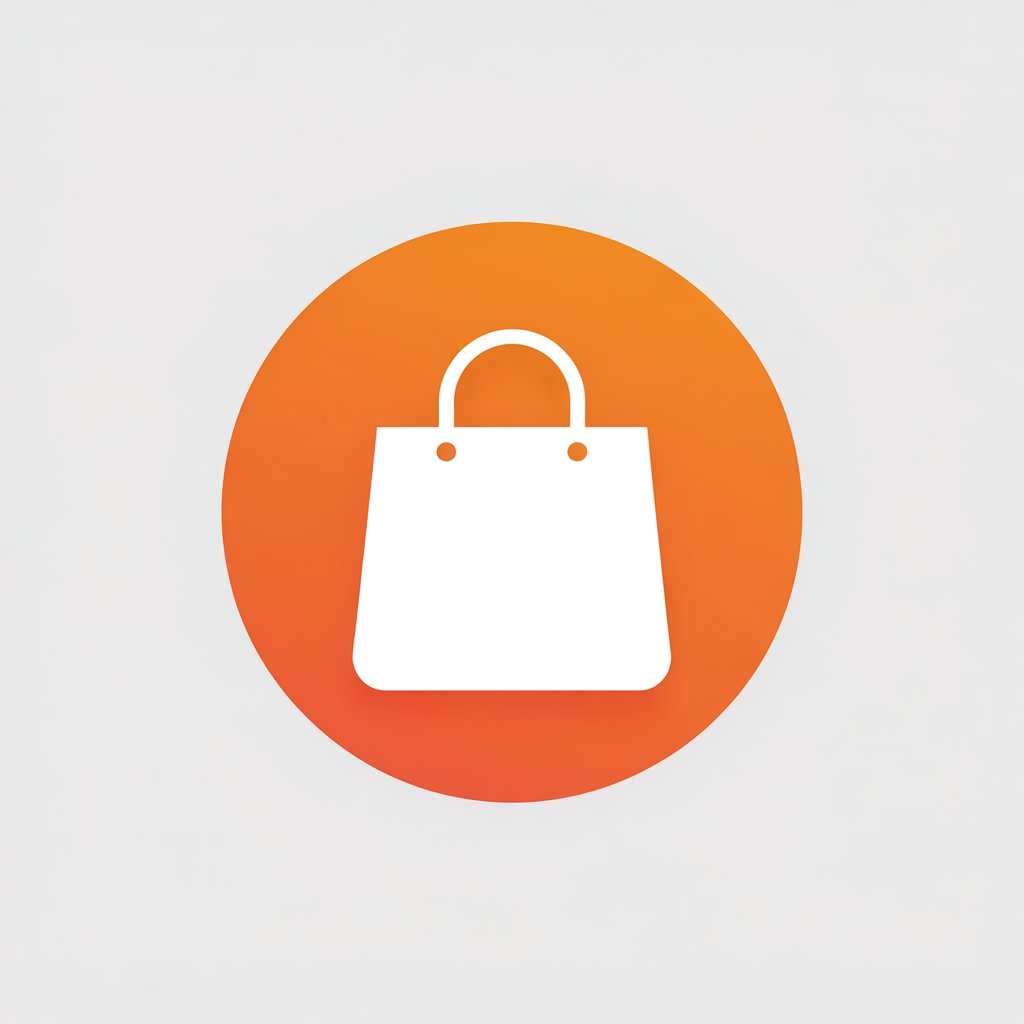
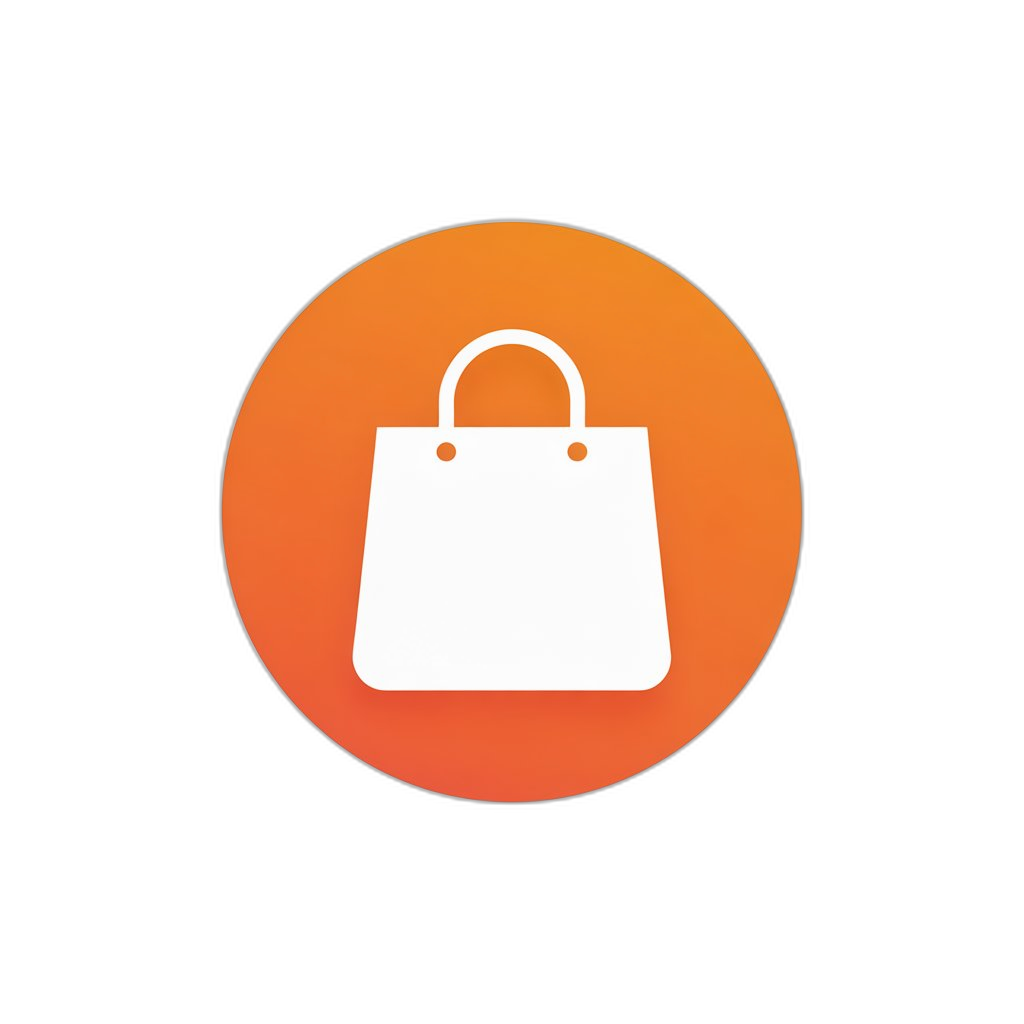
ShopeeBoster V2.0.0

diff --git a/gerar_icon.py b/gerar_icon.py
@@ -1,39 +1,24 @@
 from PIL import Image
+from rembg import remove
+import io
 import os
 
-# 1. Abre a imagem original
-img = Image.open("icon_original.png")
+# 1. Carrega a imagem original
+with open("icon_original.png", "rb") as f:
+    input_data = f.read()
 
-# 2. Converte para RGBA (Garante canal de transparência)
-img = img.convert("RGBA")
-
-# Garante a limpeza do canal RGBA, removendo fundos indesejados caso seja RGB
-data = img.getdata()
-# Se houver branco chapado ao redor (RGB alto) converte para transparente
-# Como precaução, verifica a cor do pixel. O ícone da Shopee possui borda branca arredondada,
-# se o objetivo é bordas redondas transparentes, talvez o fundo (0,0,0) estava sem mascara let's just use RGBA.
-# Se o fundo fosse preto não transparente mas RGB:
-new_data = []
-for d in data:
-    # d é (R, G, B, A). Removendo branco puro
-    if d[0] > 240 and d[1] > 240 and d[2] > 240:
-        new_data.append((255, 255, 255, 0))
-    # Removendo fundo 'preto' puro / cor sólida de "vazio" sem errar a arte viva
-    elif d[0] < 10 and d[1] < 10 and d[2] < 10:
-        new_data.append((255, 255, 255, 0))
-    else:
-        new_data.append(d)
-
-img.putdata(new_data)
+# 2. IA remove apenas o fundo (preservando o branco interno do ícone)
+print("✂ Removendo fundo do ícone via IA...")
+output_data = remove(input_data)
+img = Image.open(io.BytesIO(output_data)).convert("RGBA")
 
 # 3. Define os tamanhos padrão do Windows
 tamanhos = [(16, 16), (32, 32), (48, 48), (64, 64), (128, 128), (256, 256)]
 
-# 4. Salva o ICO garantindo que o canal Alpha seja preservado
-# O formato ICO no Pillow suporta transparência nativamente se a imagem for RGBA
 if not os.path.exists("assets"):
     os.makedirs("assets")
 
-img.save("assets/icon.ico", format="ICO", sizes=tamanhos, bitmap_format="png")
-img.save("assets/icon.png", format="PNG") # Atualiza o icon.png tbm
-print("✅ Ícone V2.0.0 gerado com transparência real!")
+# 4. Salva as versões com transparência real
+img.save("assets/icon.png")
+img.save("assets/icon.ico", format="ICO", sizes=tamanhos)
+print("✅ icon.ico gerado com transparência inteligente em assets/")
